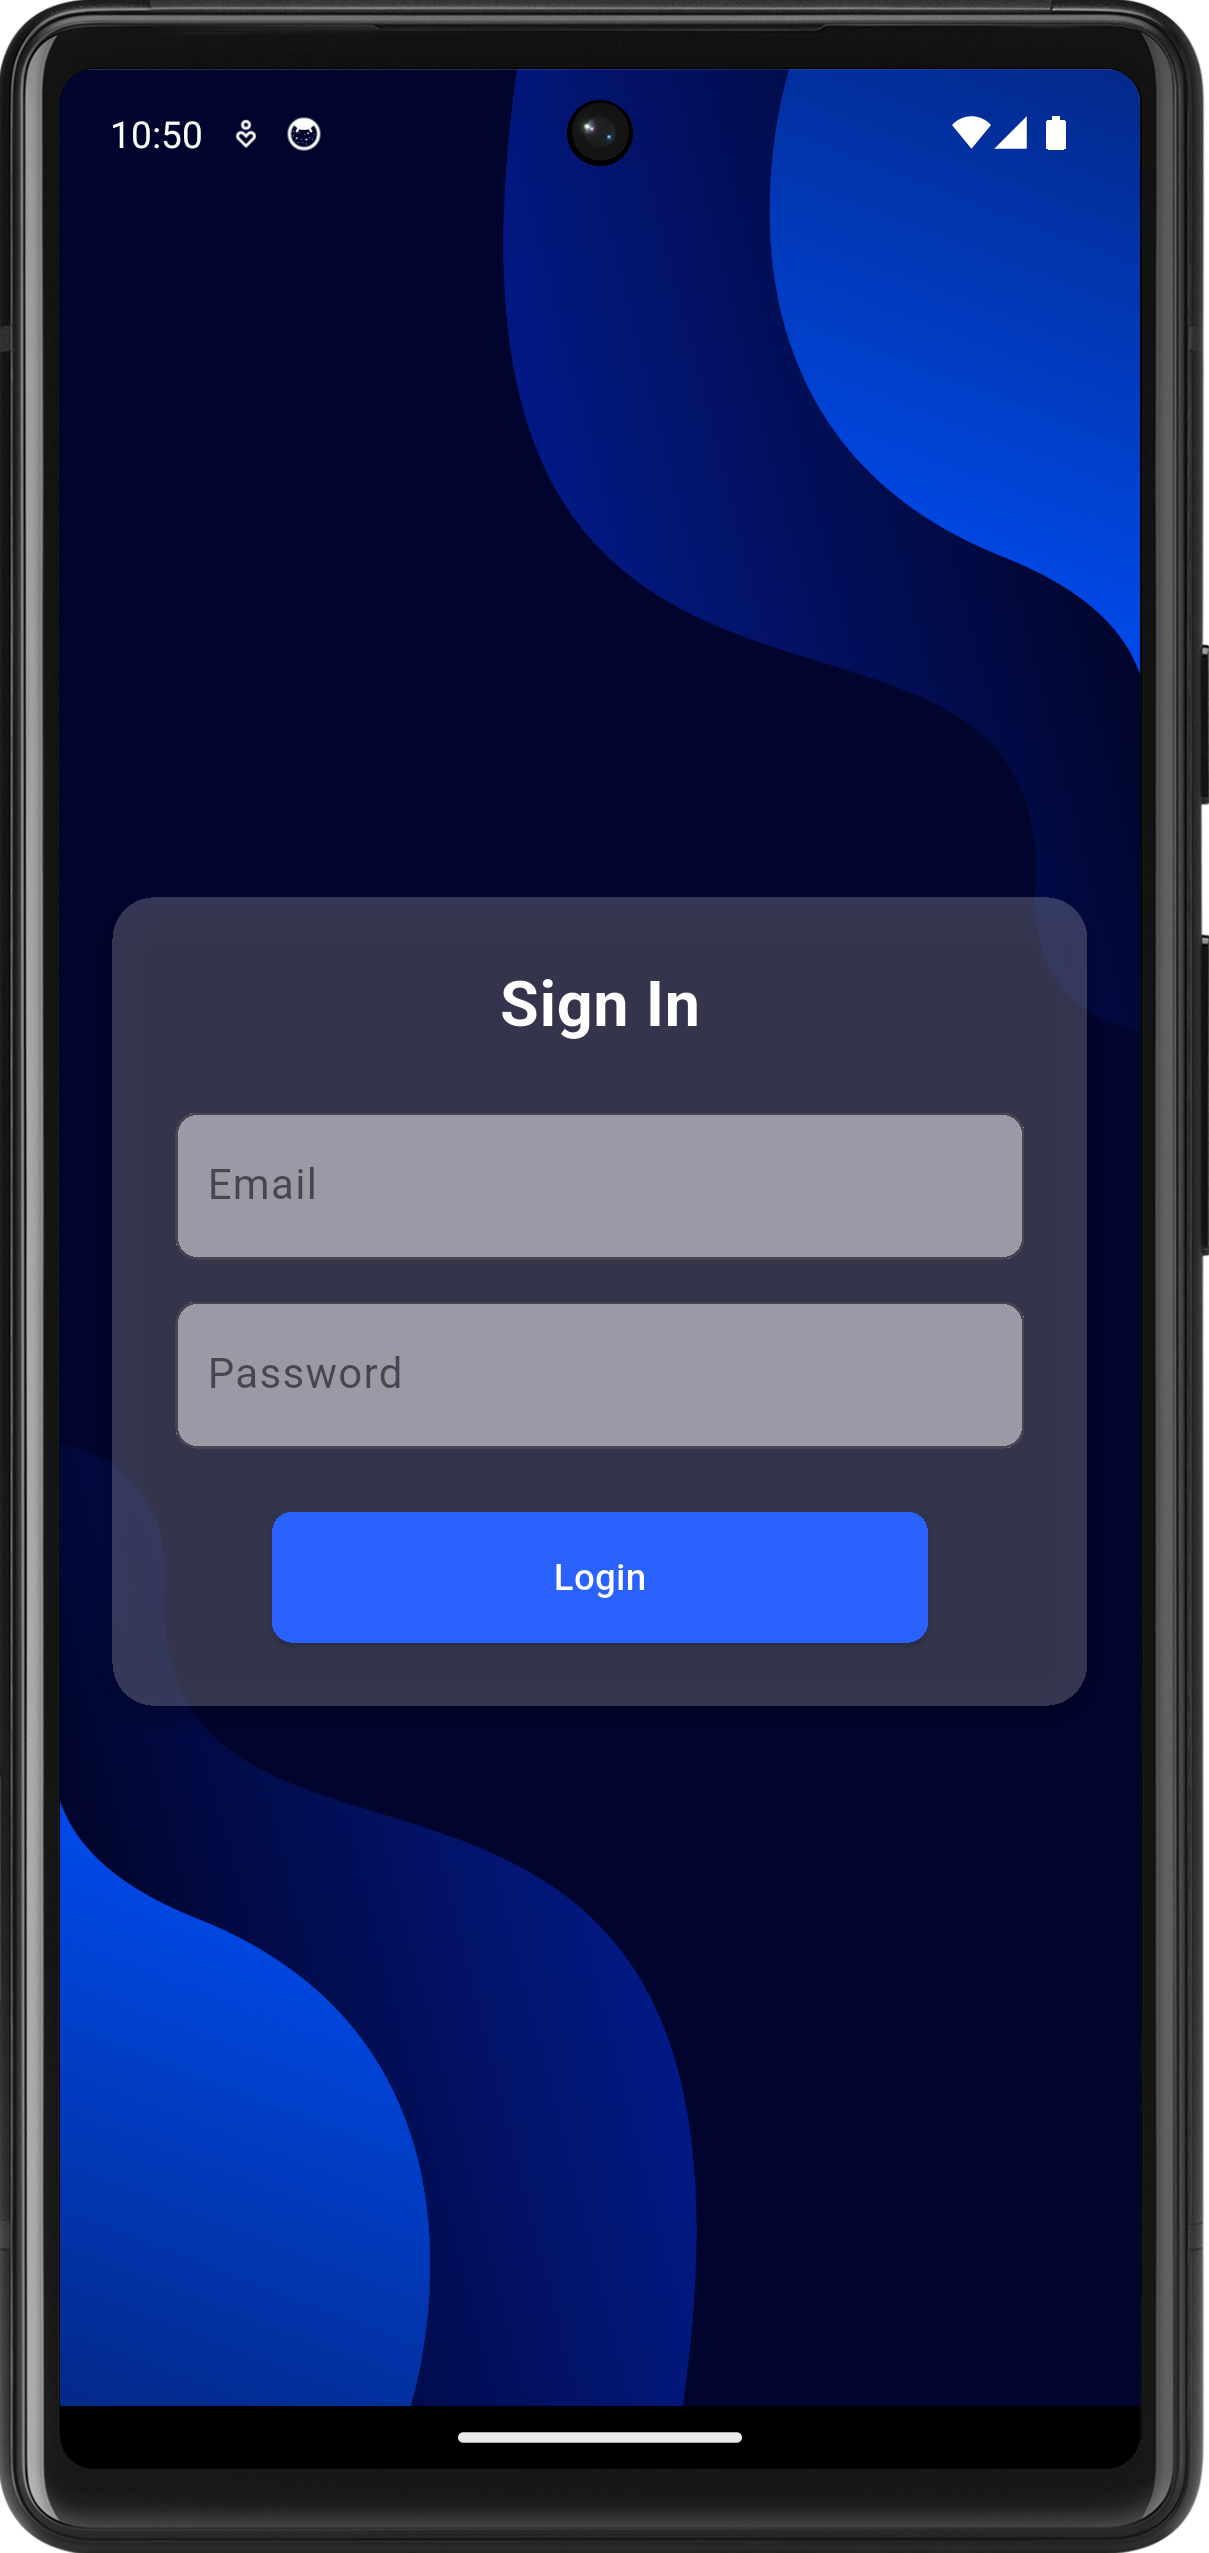
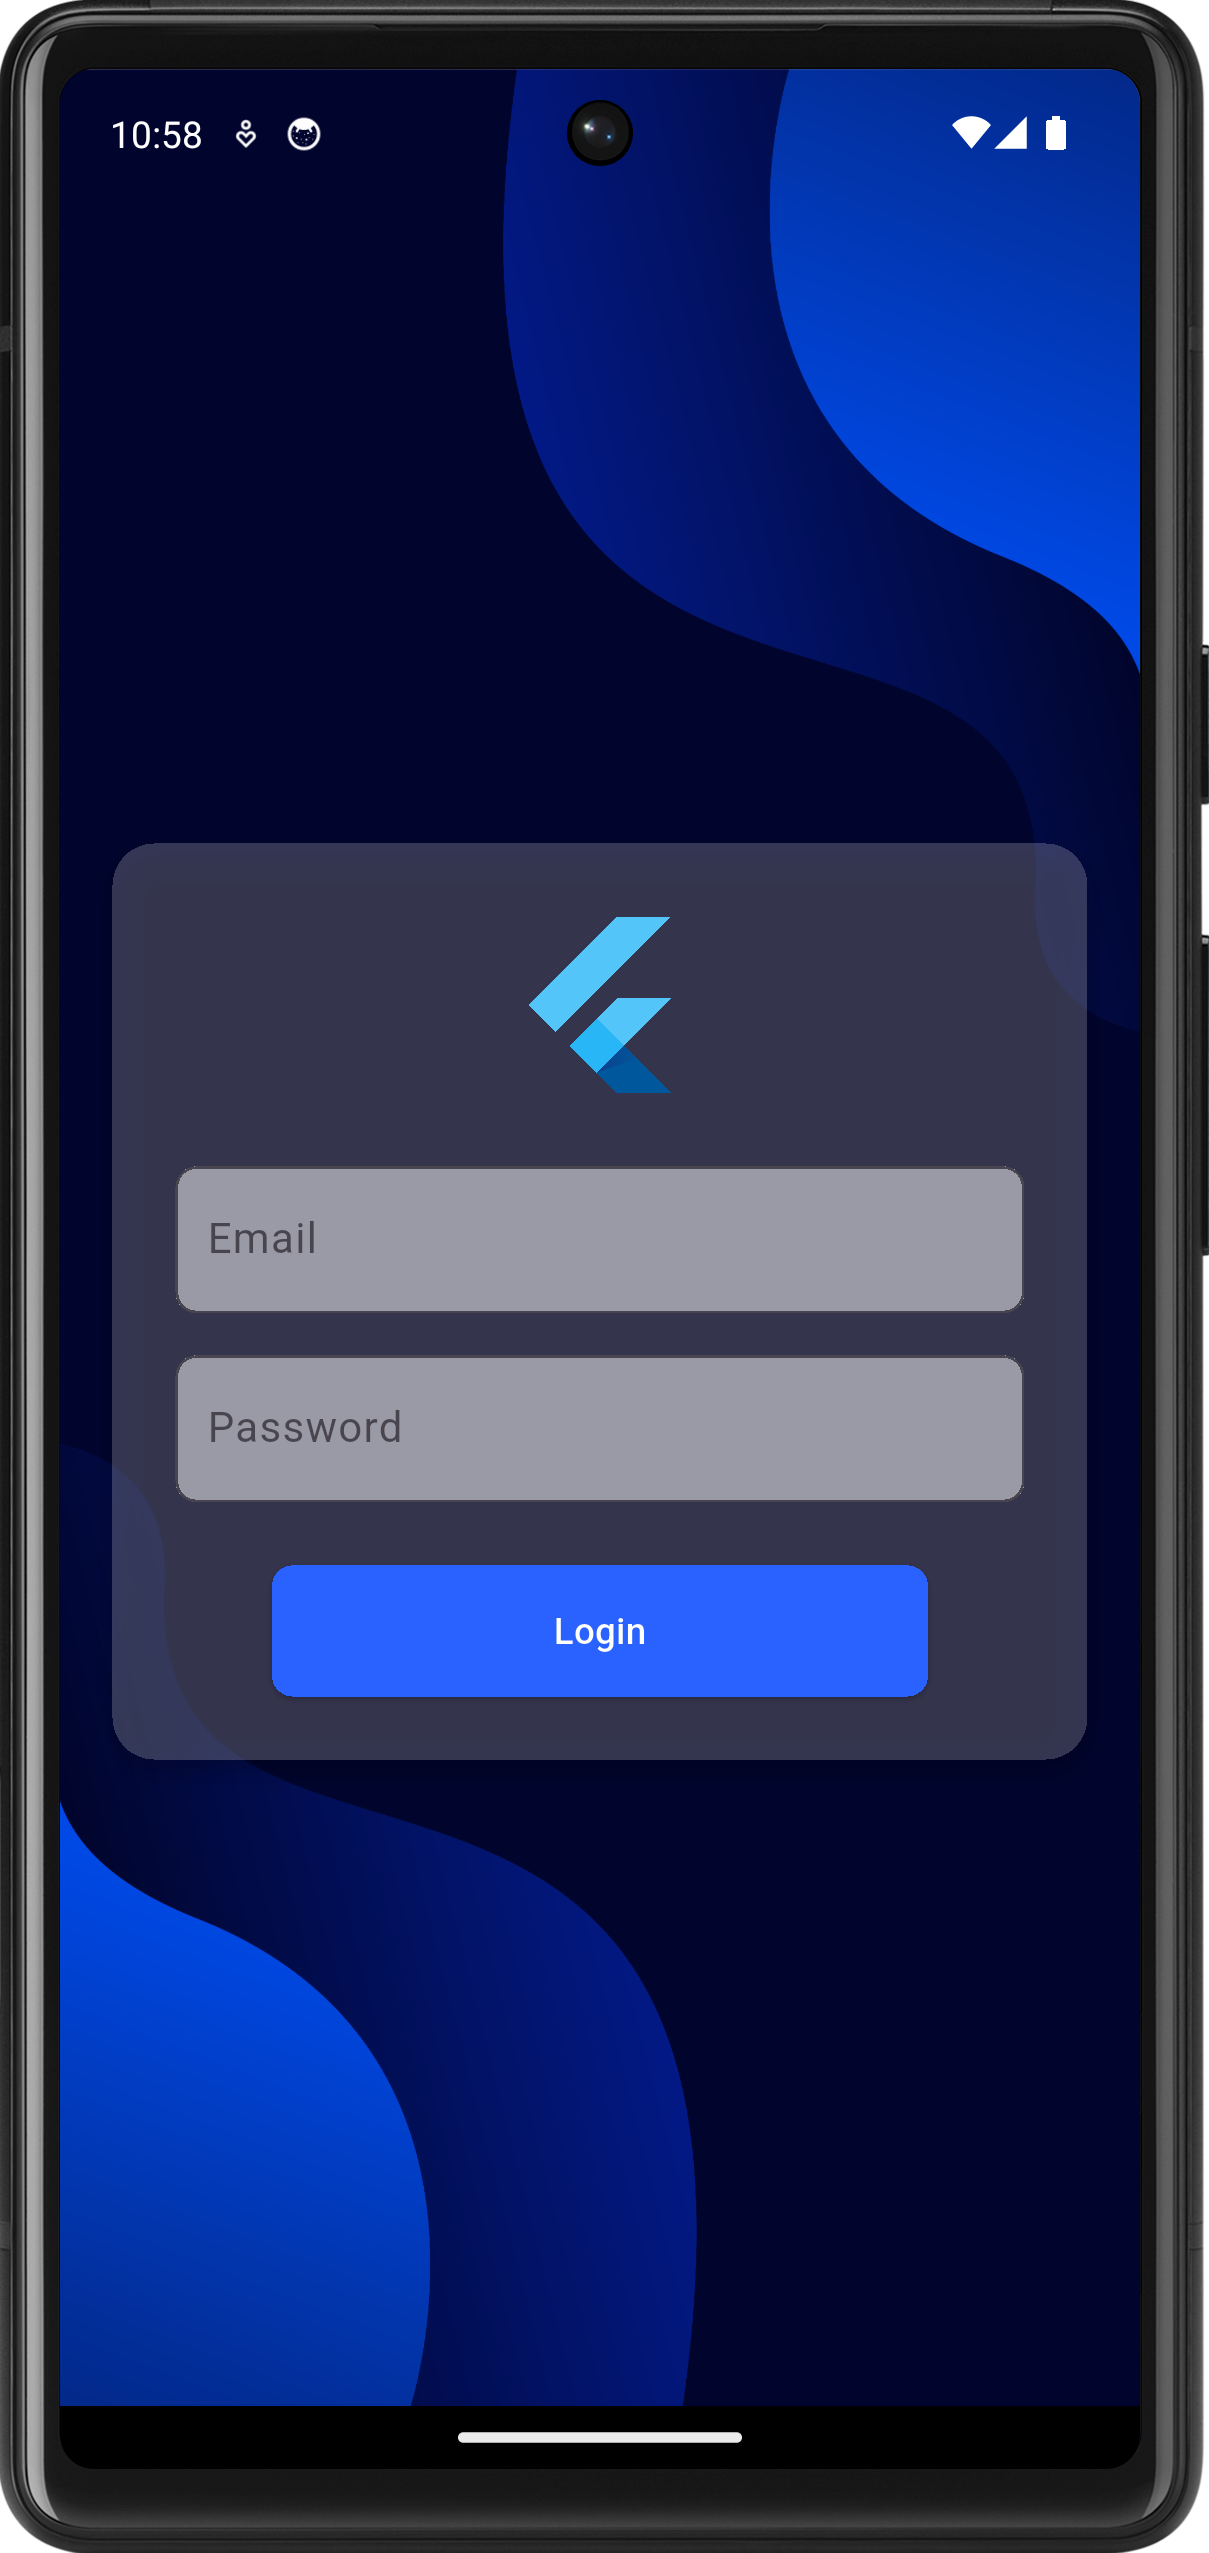
ready to go

Changed region(s): [[0.0918, 0.3094, 0.9181, 0.7117]]

diff --git a/example/lib/main.dart b/example/lib/main.dart
@@ -10,8 +10,11 @@ class MyApp extends StatelessWidget {
   const MyApp({super.key});
   @override
   Widget build(BuildContext context) {
-    return MaterialApp(title: 'Background Example', home: const MyHomePage(),
-        debugShowCheckedModeBanner: false,);
+    return MaterialApp(
+      title: 'Background Example',
+      home: const MyHomePage(),
+      debugShowCheckedModeBanner: false,
+    );
   }
 }
 
@@ -26,95 +29,86 @@ class MyHomePage extends StatelessWidget {
       ),
       child: Scaffold(
         body: Background(
-          path: 'assets/bg.png',
+          path: 'assets/bg3.mp4',
           child: SafeArea(
             child: Column(
               mainAxisAlignment: MainAxisAlignment.center,
               children: [
                 Container(
-
-                    padding: const EdgeInsets.all(24),
-                    margin: EdgeInsets.symmetric(horizontal: 20),
-                    decoration: BoxDecoration(
-                      color: Colors.white.withOpacity(0.2),
-                      borderRadius: BorderRadius.circular(16),
-                      boxShadow: [
-                        BoxShadow(
-                          color: Colors.black26,
-                          blurRadius: 8,
-                          offset: Offset(0, 4),
+                  padding: const EdgeInsets.all(24),
+                  margin: EdgeInsets.symmetric(horizontal: 20),
+                  decoration: BoxDecoration(
+                    color: Colors.white.withOpacity(0.2),
+                    borderRadius: BorderRadius.circular(16),
+                    boxShadow: [
+                      BoxShadow(
+                        color: Colors.black26,
+                        blurRadius: 8,
+                        offset: Offset(0, 4),
+                      ),
+                    ],
+                  ),
+                  child: Form(
+                    child: Column(
+                      mainAxisSize: MainAxisSize.min,
+                      children: [
+                        FlutterLogo(
+                          size: 75,
+                        ),
+                        const SizedBox(height: 24),
+                        TextFormField(
+                          decoration: InputDecoration(
+                            hintText: 'Email',
+                            filled: true,
+                            fillColor: Colors.white.withOpacity(0.5),
+                            border: OutlineInputBorder(
+                              borderRadius: BorderRadius.circular(8),
+                            ),
+                          ),
+                        ),
+                        const SizedBox(height: 16),
+                        TextFormField(
+                          obscureText: true,
+                          decoration: InputDecoration(
+                            hintText: 'Password',
+                            filled: true,
+                            fillColor: Colors.white.withOpacity(0.5),
+                            border: OutlineInputBorder(
+                              borderRadius: BorderRadius.circular(8),
+                            ),
+                          ),
+                        ),
+                        const SizedBox(height: 24),
+                        SizedBox(
+                          width: 250,
+                          height: 50, // Set your desired width
+                          child: ElevatedButton(
+                            onPressed: () {},
+                            style: ElevatedButton.styleFrom(
+                              backgroundColor: Colors.blueAccent.shade700,
+                              shape: RoundedRectangleBorder(
+                                borderRadius: BorderRadius.circular(8),
+                              ),
+                            ),
+                            child: const Padding(
+                              padding: EdgeInsets.symmetric(
+                                horizontal: 32,
+                                vertical: 12,
+                              ),
+                              child: Text(
+                                'Login',
+                                style: TextStyle(color: Colors.white),
+                              ),
+                            ),
+                          ),
                         ),
                       ],
                     ),
-                    child: Form(
-                      child: Column(
-                        mainAxisSize: MainAxisSize.min,
-                        children: [
-
-                          Text(
-                            'Sign In',
-                            style: TextStyle(
-                              fontSize: 24,
-                              fontWeight: FontWeight.bold,
-                              color: Colors.white,
-                            ),
-                          ),
-                          const SizedBox(height: 24),
-                          TextFormField(
-                            decoration: InputDecoration(
-                              hintText: 'Email',
-                              filled: true,
-                              fillColor: Colors.white.withOpacity(0.5),
-                              border: OutlineInputBorder(
-                                borderRadius: BorderRadius.circular(8),
-                              ),
-                            ),
-                          ),
-                          const SizedBox(height: 16),
-                          TextFormField(
-                            obscureText: true,
-                            decoration: InputDecoration(
-                              hintText: 'Password',
-                              filled: true,
-                              fillColor: Colors.white.withOpacity(0.5),
-                              border: OutlineInputBorder(
-                                borderRadius: BorderRadius.circular(8),
-                              ),
-                            ),
-                          ),
-                          const SizedBox(height: 24),
-                          SizedBox(
-                            width: 250,
-                            height: 50,// Set your desired width
-                            child: ElevatedButton(
-                              onPressed: () {},
-                              style: ElevatedButton.styleFrom(
-                                backgroundColor: Colors.blueAccent.shade700,
-                                shape: RoundedRectangleBorder(
-                                  borderRadius: BorderRadius.circular(8),
-                                ),
-                              ),
-                              child: const Padding(
-                                padding: EdgeInsets.symmetric(
-                                  horizontal: 32,
-                                  vertical: 12,
-                                ),
-                                child: Text(
-                                  'Login',
-                                  style: TextStyle(color: Colors.white),
-                                ),
-                              ),
-                            ),
-                          ),
-
-
-                        ],
-                      ),
-                    ),
                   ),
+                ),
+                const SizedBox(height: 125),
               ],
             ),
-
           ),
         ),
       ),

diff --git a/lib/background.dart b/lib/background.dart
@@ -1,10 +1,21 @@
 import 'package:flutter/material.dart';
 import 'package:video_player/video_player.dart';
 
+/// A widget that displays a background which can be either an image or a video.
+/// The background is determined based on the file extension of the provided path.
+/// It also overlays a child widget on top of the background.
+///
+/// The `Background` widget supports the following file types:
+/// - Images: `.png`, `.jpg`, `.jpeg`, `.gif`, `.bmp`, `.webp`
+/// - Videos: `.mp4`, `.mov`, `.avi`, `.mkv`, `.webm`
 class Background extends StatefulWidget {
+  /// The child widget to overlay on top of the background.
   final Widget child;
+
+  /// The file path of the background asset (image or video).
   final String path;
 
+  /// Creates a `Background` widget.
   const Background({super.key, required this.child, required this.path});
 
   @override
@@ -12,34 +23,45 @@ class Background extends StatefulWidget {
 }
 
 class _BackgroundState extends State<Background> {
+  /// Controller for managing video playback.
   VideoPlayerController? _videoController;
 
   @override
   void initState() {
     super.initState();
+    // Initialize the video controller if the provided path is a video.
     if (_isVideo(widget.path)) {
       _videoController = VideoPlayerController.asset(widget.path)
-        ..setLooping(true)
-        ..setVolume(0.0)
+        ..setLooping(true) // Loop the video playback.
+        ..setVolume(0.0) // Mute the video.
         ..initialize().then((_) {
-          setState(() {});
-          _videoController?.play();
+          setState(() {}); // Update the UI after initialization.
+          _videoController?.play(); // Start video playback.
         });
     }
   }
 
   @override
   void dispose() {
+    // Dispose of the video controller to free resources.
     _videoController?.dispose();
     super.dispose();
   }
 
+  /// Checks if the provided path corresponds to an image file.
+  ///
+  /// Supported image extensions:
+  /// `.png`, `.jpg`, `.jpeg`, `.gif`, `.bmp`, `.webp`
   bool _isImage(String? path) {
     final imageExtensions = ['.png', '.jpg', '.jpeg', '.gif', '.bmp', '.webp'];
     return path != null &&
         imageExtensions.any((ext) => path.toLowerCase().endsWith(ext));
   }
 
+  /// Checks if the provided path corresponds to a video file.
+  ///
+  /// Supported video extensions:
+  /// `.mp4`, `.mov`, `.avi`, `.mkv`, `.webm`
   bool _isVideo(String? path) {
     final videoExtensions = ['.mp4', '.mov', '.avi', '.mkv', '.webm'];
     return path != null &&
@@ -50,33 +72,38 @@ class _BackgroundState extends State<Background> {
   Widget build(BuildContext context) {
     Widget background;
 
+    // Determine the background widget based on the file type.
     if (_isImage(widget.path)) {
       background = Container(
         decoration: BoxDecoration(
           image: DecorationImage(
-            image: AssetImage(widget.path),
-            fit: BoxFit.cover,
+            image: AssetImage(widget.path), // Load the image asset.
+            fit: BoxFit.cover, // Cover the entire container.
           ),
         ),
       );
     } else if (_isVideo(widget.path) &&
         _videoController != null &&
         _videoController!.value.isInitialized) {
-      background = VideoPlayer(_videoController!);
+      background = VideoPlayer(_videoController!); // Display the video.
     } else {
-      background = Container(color: Theme.of(context).colorScheme.surface);
+      background = Container(
+          color: Theme.of(context).colorScheme.surface); // Fallback background.
     }
 
+    // Overlay the child widget on top of the background.
     return Stack(
       children: [
-        Positioned.fill(child: background),
+        Positioned.fill(
+            child: background), // Fill the entire area with the background.
         Positioned.fill(
           child: LayoutBuilder(
             builder: (context, constraints) {
               return SizedBox(
-                width: constraints.maxWidth,
-                height: constraints.maxHeight,
-                child: widget.child,
+                width: constraints.maxWidth, // Match the width of the parent.
+                height:
+                    constraints.maxHeight, // Match the height of the parent.
+                child: widget.child, // Display the child widget.
               );
             },
           ),

diff --git a/CHANGELOG.md b/CHANGELOG.md
@@ -1,3 +1,5 @@
-## 0.0.1
+# Changelog for Background
+## 1.0.0
 
-- Initial release.
+- Added support for both image and video backgrounds.
+- Improved performance and stability.

diff --git a/README.md b/README.md
@@ -30,7 +30,7 @@ png" width="300"/>
 
 ```dart
 dependencies:
-background:^0.0.1
+background:^1.0.0
 OR
 ```console
 flutter pub add background
